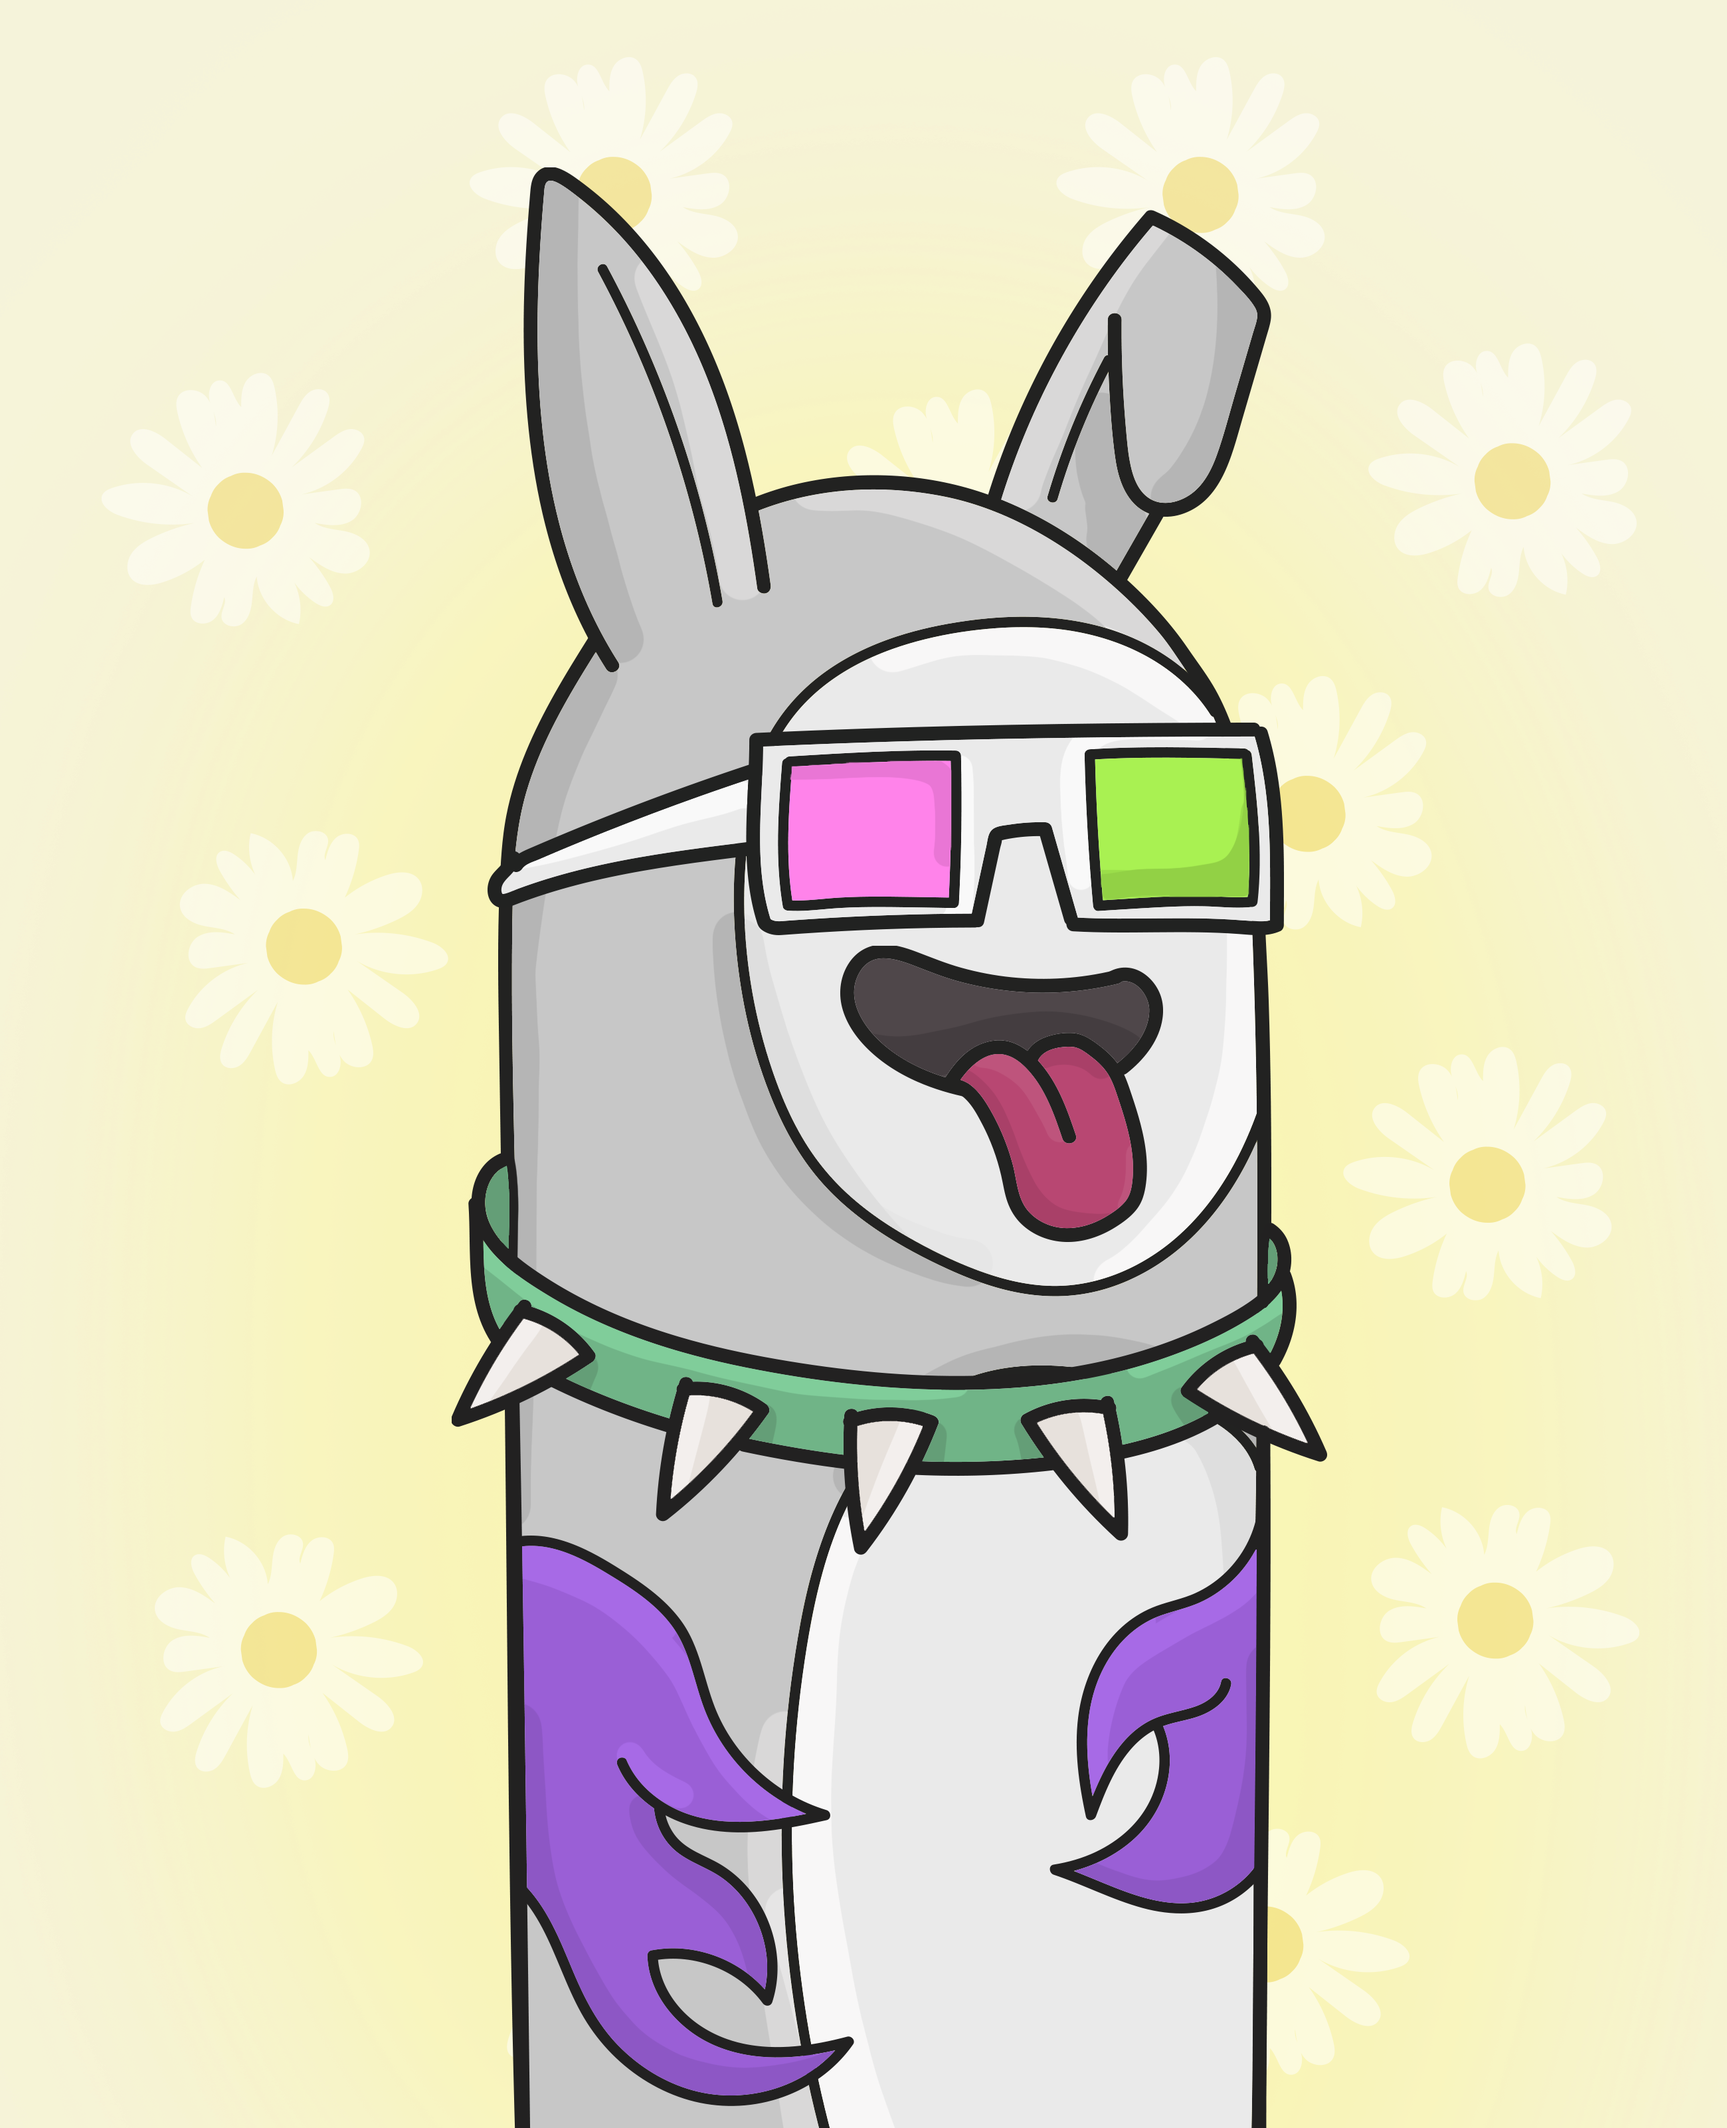
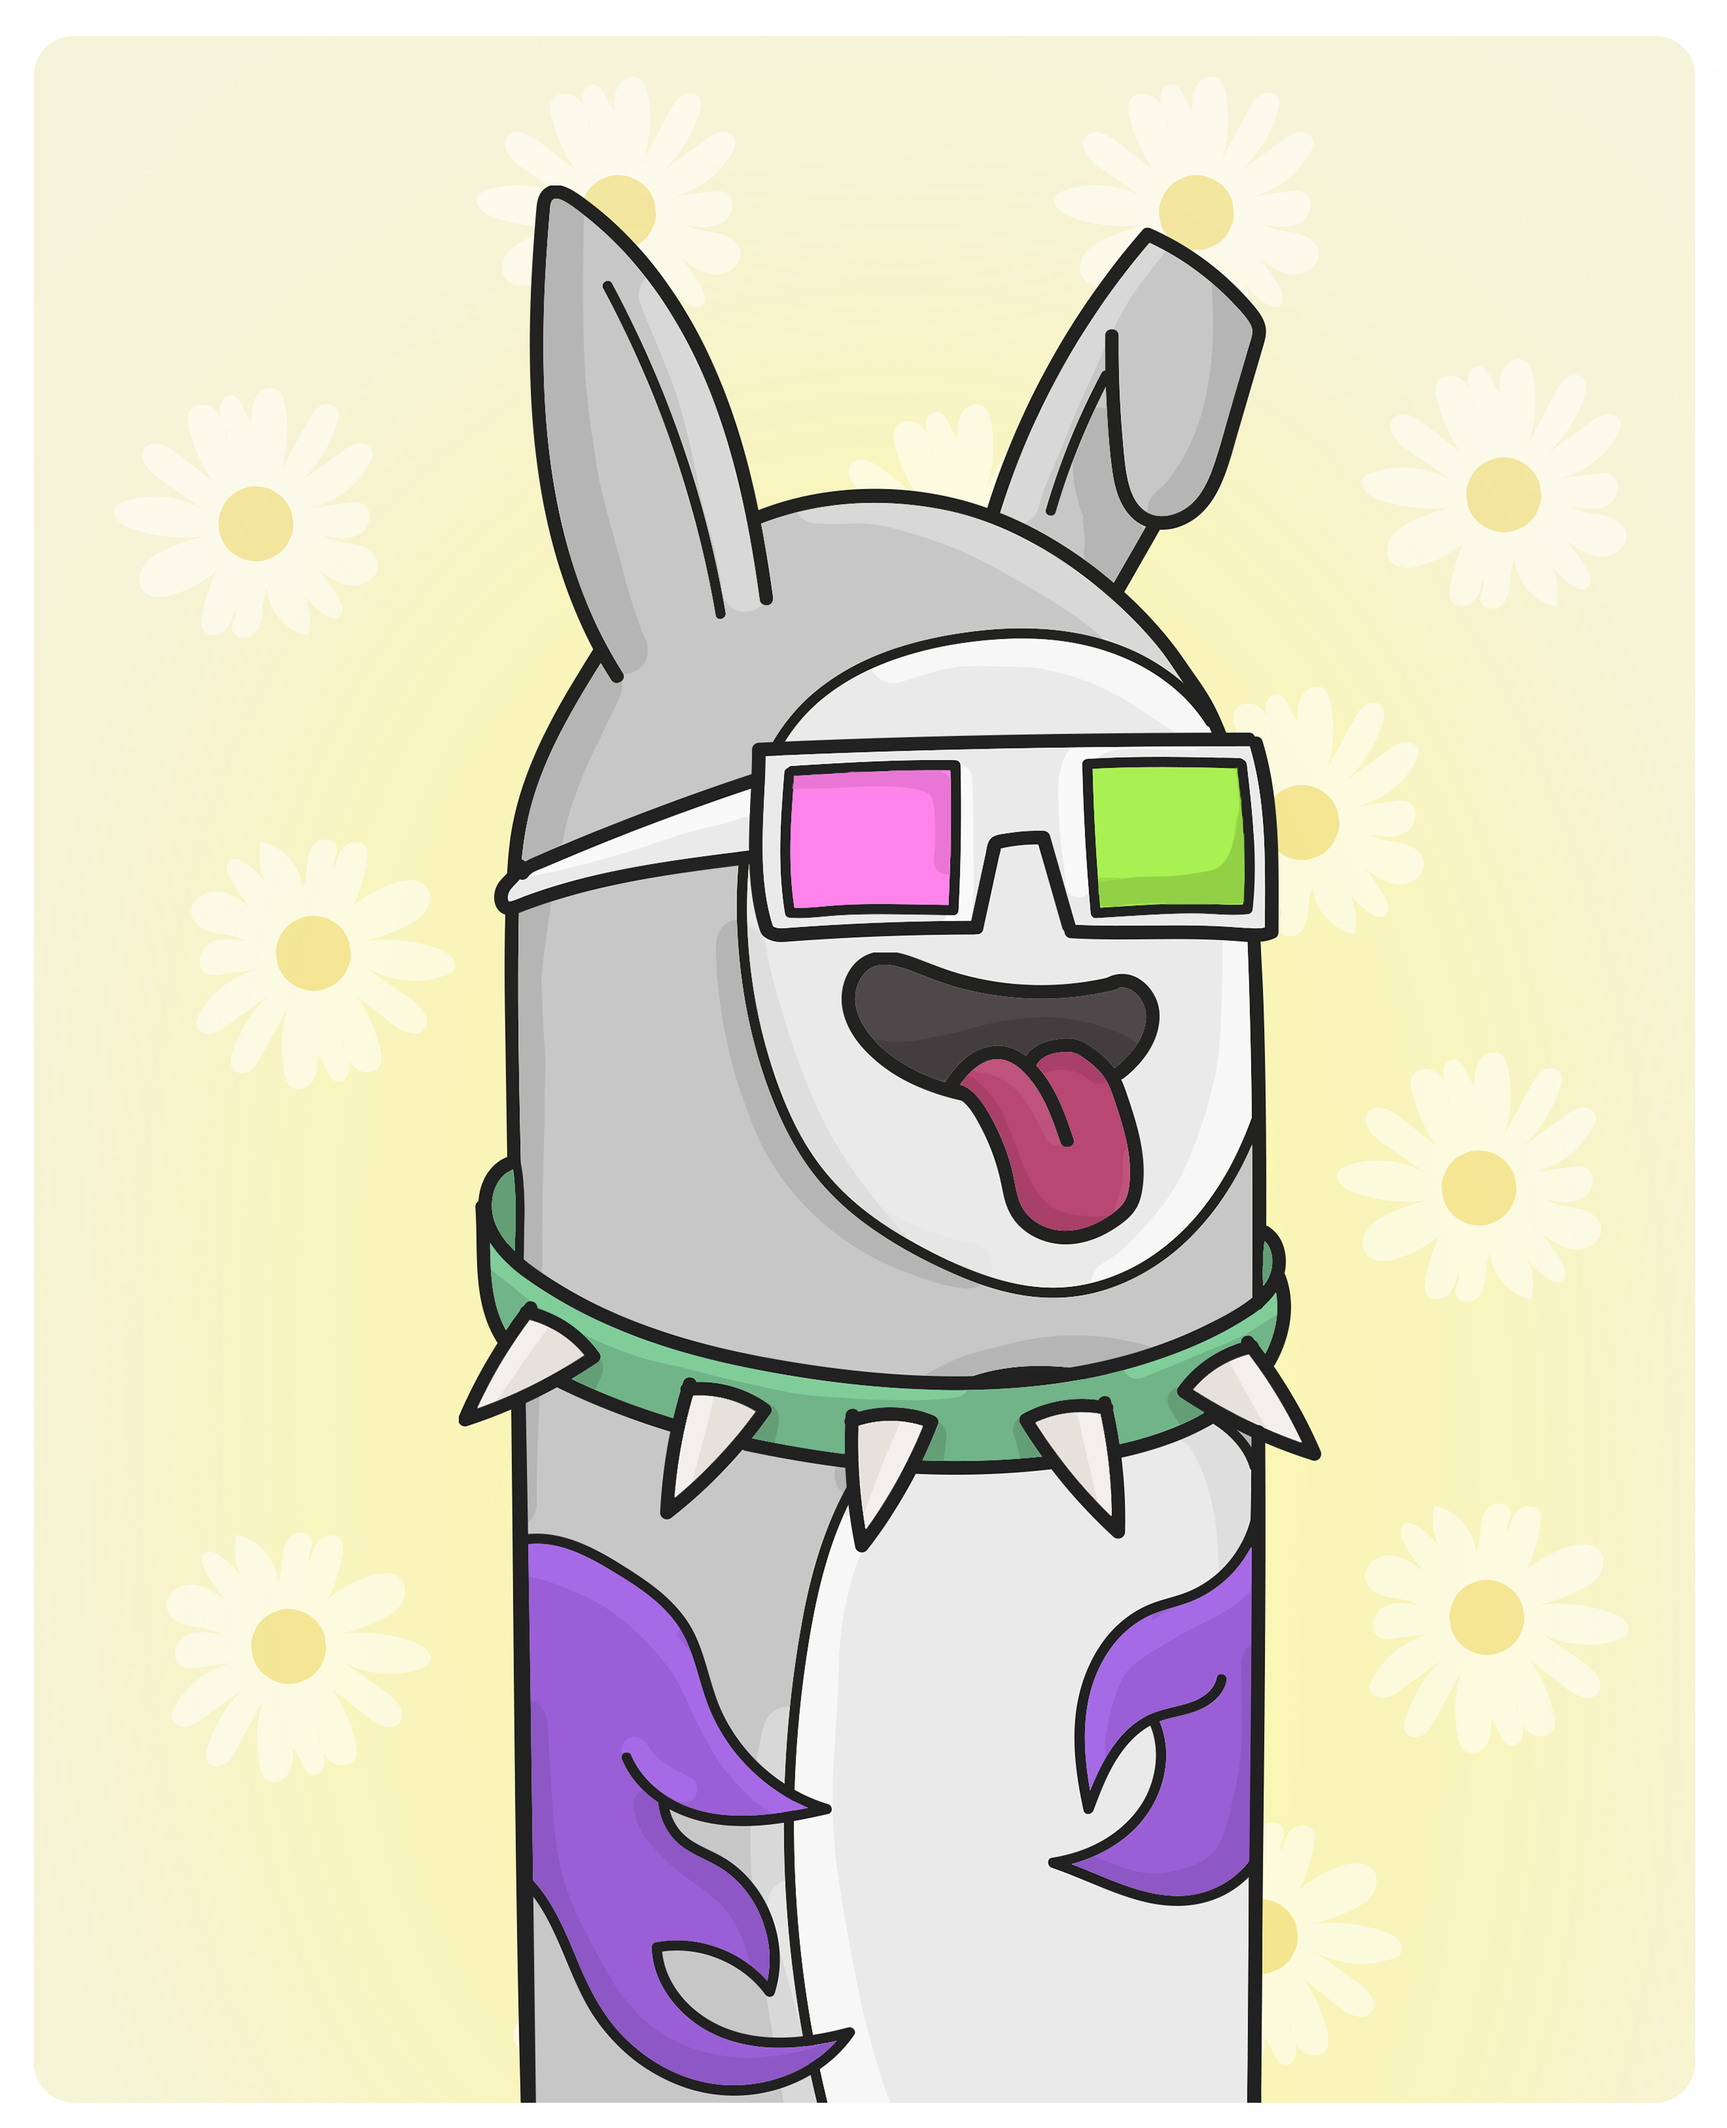
Minor style fixes and image fixes

diff --git a/index.html b/index.html
@@ -71,19 +71,19 @@
                     <div class="container">
                         <div class="row gx-5 px-5 justify-content-center">
                             <div class="col-lg-3 col-md-4 col-6 px-3 text-center text-body">
-                                <img class="img-fluid" src="assets/img/moodie-anim-4.gif" alt="Meta moodies club cover"/>
+                                <img class="img-fluid border-img" src="assets/img/originals.gif" alt="Meta moodies club cover"/>
                                 <h3 class="p-2">Originals</h3>
                             </div>
                             <div class="col-lg-3 col-md-4 col-6 px-3 text-center text-body">
-                                <img class="img-fluid" src="assets/img/moodie-anim-3.gif" alt="Meta moodies club cover"/>
+                                <img class="img-fluid border-img" src="assets/img/wildlings.gif" alt="Meta moodies club cover"/>
                                 <h3 class="p-2">Wildlings</h3>
                             </div>
                             <div class="col-lg-3 col-md-4 col-6 px-3 text-center text-body">
-                                <img class="img-fluid" src="assets/img/moodie-anim-2.gif" alt="Meta moodies club cover"/>
+                                <img class="img-fluid border-img" src="assets/img/arrivals.gif" alt="Meta moodies club cover"/>
                                 <h3 class="p-2">Arrivals</h3>
                             </div>
                             <div class="col-lg-3 col-md-4 col-6 px-3 text-center text-body">
-                                <img class="img-fluid" src="assets/img/moodie-anim-1.gif" alt="Meta moodies club cover"/>
+                                <img class="img-fluid border-img" src="assets/img/universals.gif" alt="Meta moodies club cover"/>
                                 <h3 class="p-2">Universals</h3>
                             </div>
                         </div>
@@ -196,10 +196,10 @@
                             <h4 class="mx-5 mb-5">The Meta Moodies Club portal comes alive and delivers value to members in 4 phases. 
                                 We have milestone along the way that unlock funds for the team to expand the MetaMoodie Universe.</h4>
                             <div class="row gx-5 px-5 mb-5 justify-content-around">
-                                <div class="col-lg-4 col-md-6 col-12 px-3 text-center text-body">
+                                <div class="col-md-6 col-12 px-3">
                                     <img class="img-fluid" src="assets/img/super-cool.png" alt="Meta moodies club cover"/>
                                 </div>
-                                <div class="col-lg-8 col-md-6 col-12 px-5 text-center text-body">
+                                <div class="col-md-6 col-12 px-5 text-center text-body">
                                     <h2 class="p-2"><strong>Community Bonding</strong></h2>
                                     <h4 class="p-2">Launch</h4>
                                     <p>Create the Meta Moodie storyline, Launch our Socials and Website.</p>
@@ -212,10 +212,10 @@
                                 </div>
                             </div>
                             <div class="row gx-5 px-5 mb-5 justify-content-around">
-                                <div class="col-lg-4 col-md-6 col-12 order-0 order-md-1 px-3 text-center text-body">
+                                <div class="col-md-6 col-12 order-0 order-md-1 px-3">
                                     <img class="img-fluid" src="assets/img/lol.png" alt="Meta moodies club cover"/>
                                 </div>
-                                <div class="col-lg-8 col-md-6 col-12 order-1 order-md-0 px-5 text-center text-body">
+                                <div class="col-md-6 col-12 order-1 order-md-0 px-5 text-center text-body">
                                     <h2 class="p-2"><strong>Meta Moodie Club Designs</strong></h2>
                                     <h3 class="p-2">20% Sale</h3>
                                     <p>Design 1 for the Meta Moodie Club, the portal to the MetaMoodOn World, where members can hang-out in the Metaverse.</p>
@@ -228,10 +228,10 @@
                                 </div>
                             </div>
                             <div class="row gx-5 px-5 mb-5 justify-content-around">
-                                <div class="col-lg-4 col-md-6 col-12 px-3 text-center text-body">
+                                <div class="col-md-6 col-12 px-3">
                                     <img class="img-fluid" src="assets/img/lol.png" alt="Meta moodies club cover"/>
                                 </div>
-                                <div class="col-lg-8 col-md-6 col-12 px-5 text-center text-body">
+                                <div class="col-md-6 col-12 px-5 text-center text-body">
                                     <h2 class="p-2"><strong>Donate. Acquire. Build.</strong></h2>
                                     <h3 class="p-2">50% Sale</h3>
                                     <p>First round of donations to Mental health charities. Moodies love everyone to be in a good mood.</p>
@@ -244,10 +244,10 @@
                                 </div>
                             </div>
                             <div class="row gx-5 px-5 mb-5 justify-content-around">
-                                <div class="col-lg-4 col-md-6 col-12 order-0 order-md-1 px-3 text-center text-body">
+                                <div class="col-md-6 col-12 order-0 order-md-1 px-3">
                                     <img class="img-fluid" src="assets/img/lol.png" alt="Meta moodies club cover"/>
                                 </div>
-                                <div class="col-lg-8 col-md-6 col-12 order-1 order-md-0 px-5 text-center text-body">
+                                <div class="col-md-6 col-12 order-1 order-md-0 px-5 text-center text-body">
                                     <h2 class="p-2"><strong>Deliver. Meet. Greet.</strong></h2>
                                     <h3 class="p-2">80% Sale</h3>
                                     <p>Release real world Merchandise.</p>
@@ -260,10 +260,10 @@
                                 </div>
                             </div>
                             <div class="row gx-5 px-5 justify-content-around">
-                                <div class="col-lg-4 col-md-6 col-12 px-3 text-center text-body">
+                                <div class="col-md-6 col-12 px-3">
                                     <img class="img-fluid" src="assets/img/lol.png" alt="Meta moodies club cover"/>
                                 </div>
-                                <div class="col-lg-8 col-md-6 col-12 px-5 text-center text-body">
+                                <div class="col-md-6 col-12 px-5 text-center text-body">
                                     <h2 class="p-2"><strong>To infinity and Beyond</strong></h2>
                                     <h3 class="p-2">Future</h3>
                                     <p><i class="fas fa-lightbulb text-yellow"></i> Community Chest</p>
@@ -290,7 +290,7 @@
                     </div>
                     <div class="faq-container-bg">
                         <div class="container">
-                            <div class="row gx-5 px-5 justify-content-around">
+                            <div class="row justify-content-around">
                                 <div class="accordion-item">
                                     <h2 class="accordion-header">
                                     <button class="accordion-button collapsed" type="button" data-bs-toggle="collapse" data-bs-target="#q1">
@@ -517,7 +517,7 @@
             </section>
             <!-- Footer-->
             <footer class="px-5 faq-container-bg">
-                <div class="py-5"></div>
+                <div class="py-3"></div>
                 <div class="row justify-content-between">
                     <div class="col-12 col-lg-7 order-1 order-lg-0 py-3">
                         <div class="d-flex justify-content-center justify-content-lg-start px-5">

diff --git a/css/styles.css b/css/styles.css
@@ -78,6 +78,7 @@
 }
 .border-img {
   border: 8px solid #fff;
+  border-radius: 25px;
 }
 .col-overlap {
   margin-left: -100%;
@@ -262,7 +263,7 @@ blockquote {
 b,
 strong {
   font-weight: bold;
-  color: #C258E7;
+  color: #9681d8;
 }
 
 small, .small {
